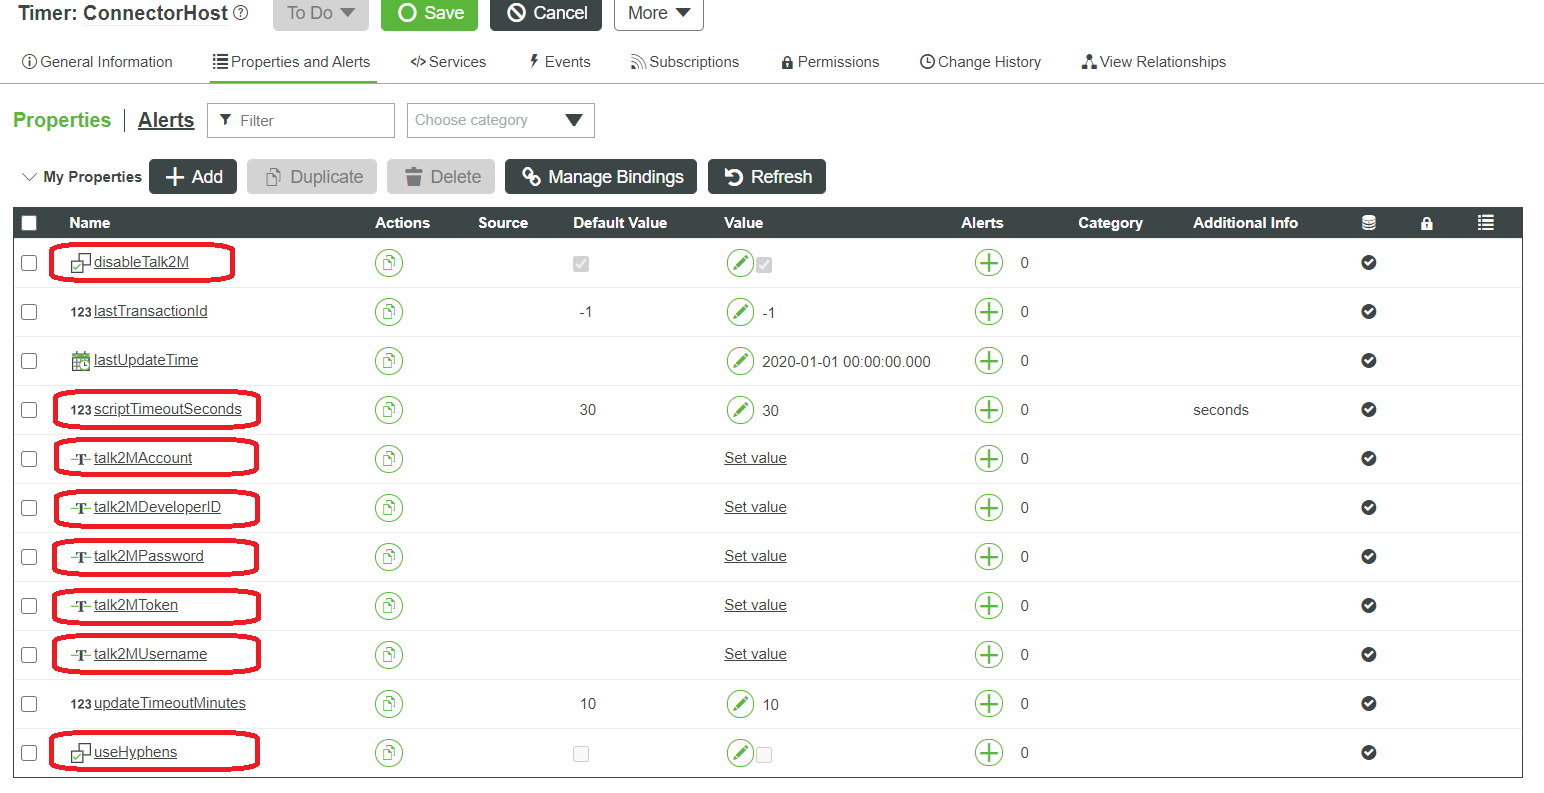
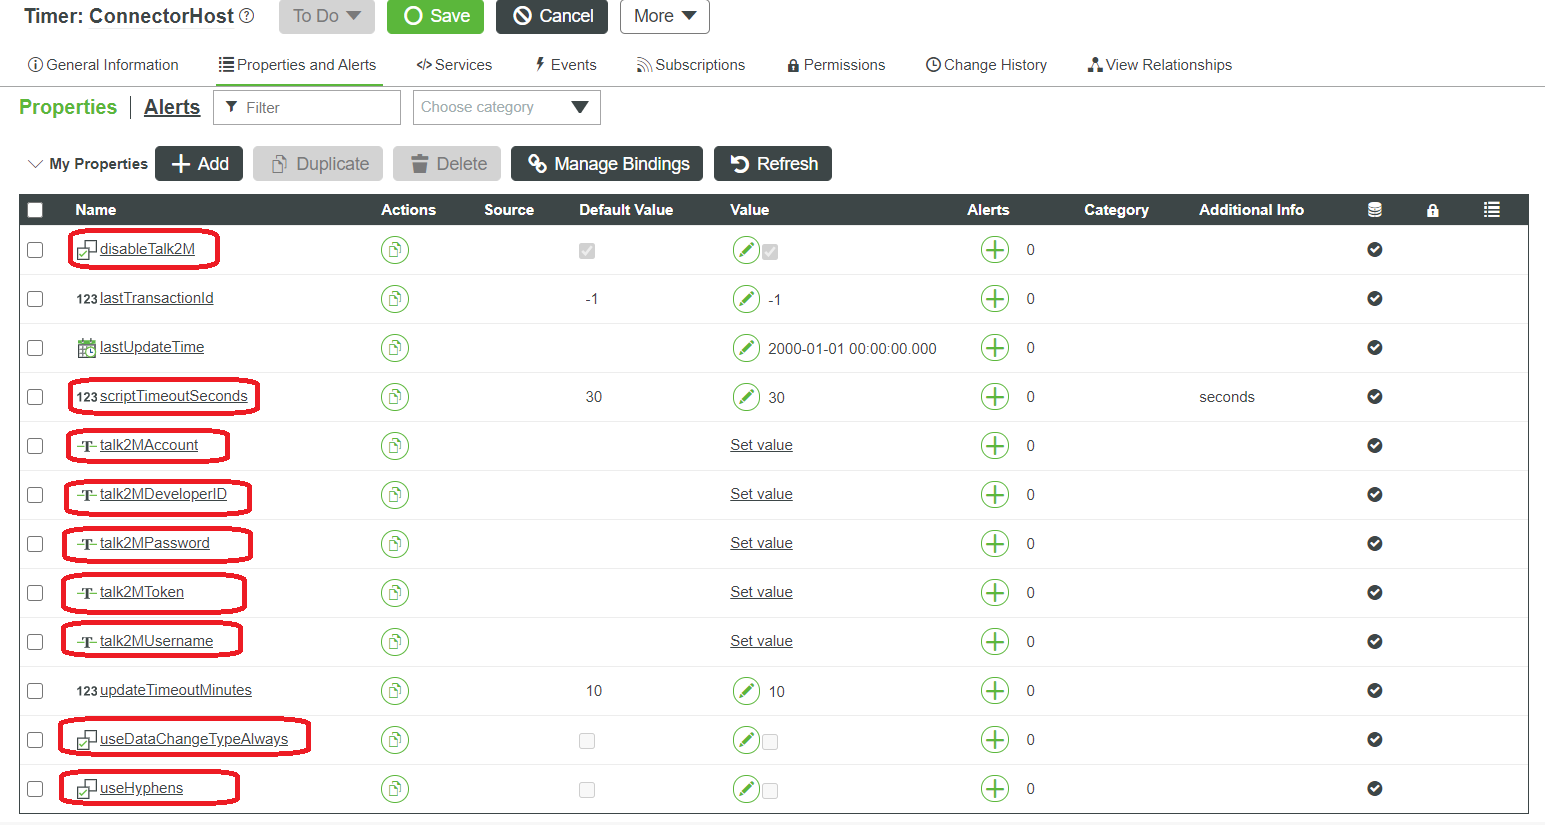
Add DataChangeType=always override option

diff --git a/README.md b/README.md
@@ -89,7 +89,9 @@ Navigate to the "Properties and Alerts" tab in ConnectorHost and populate the fo
 
 7. *talk2MUsername*: The account username for login to Talk2M.
 
-8. *useHyphens*: When set to true, additional organization is performed on thing properties with a prefix in the name (i.e. PREFIX-\[tagname\]).
+8. *useDataChangeTypeAlways*: When set to true, the DataChangeType field of newly created properties will be set to 'Always'. The default value is `false`, which will result in newly created properties using the DataChangeType of 'Value'.
+
+9. *useHyphens*: When set to true, additional organization is performed on thing properties with a prefix in the name (i.e. PREFIX-\[tagname\]).
 
 Additional and more detailed information about the properties of ConnectorHost can be found below in Thing Information > ConnectorHost > Properties.
 
@@ -123,7 +125,9 @@ ConnectorHost is a timer thing and triggers a check for new Talk2M data on its c
 
 10. *updateTimeoutMinutes*: An integer property that the Talk2M and direct data path services use as the maximum number of minutes since last data update before showing a warning in the logs.
 
-11. *useHyphens*: A boolean property that controls the organization of Ewon devices and their tags. When tags use a hyphen prefix (i.e. PREFIX-\[tagname\]), a thing will be created for each prefix (i.e. DEVICE-PREFIX) and each of the properties will be added. The default value is `false`.
+11. *useDataChangeTypeAlways*: A boolean property that the Talk2M and direct data path services use when creating new Thing properties. The default value is `false`. If the value is `true`, the DataChangeType field of newly created properties will be set to 'Always'.
+
+12. *useHyphens*: A boolean property that controls the organization of Ewon devices and their tags. When tags use a hyphen prefix (i.e. PREFIX-\[tagname\]), a thing will be created for each prefix (i.e. DEVICE-PREFIX) and each of the properties will be added. The default value is `false`.
 
 ##### Services
 

diff --git a/CHANGELOG.md b/CHANGELOG.md
@@ -5,6 +5,7 @@
 - Data is added as Thing properties
 - Updated screenshots and documentation to Thingworx 9
 - Tag quality data is included in data from the Talk2M and direct data paths
+- Added option for created properties to use the 'Always' data change type
 ### Bug Fixes
 - Fixed a bug that may have caused data to not be assigned to the proper data type
 - Fixed a bug that could have prevented Talk2M/DataMailbox data from being loaded without the 'useHyphens' option enabled
